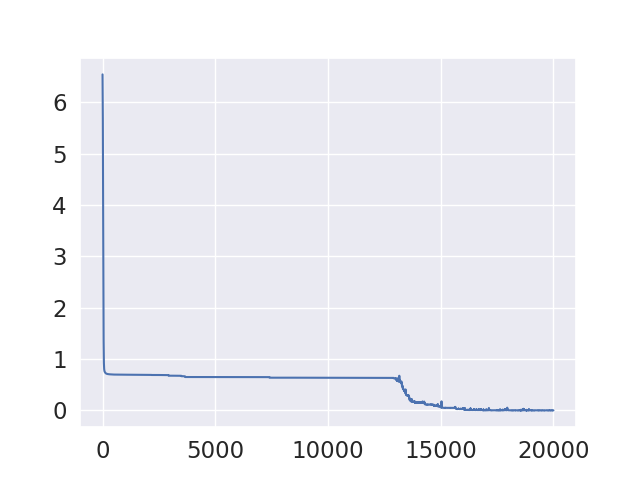
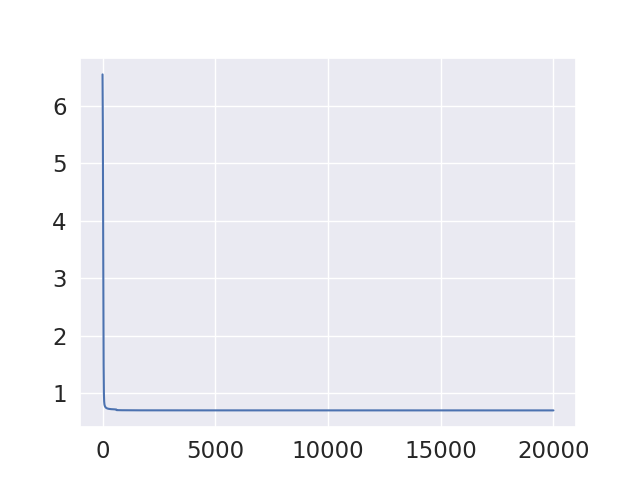
.

diff --git a/cat_tests/test_hyps.py b/cat_tests/test_hyps.py
@@ -180,6 +180,9 @@ def plot_svs(svs_list, name, num_starts, num_classes, num_features=0, learn_temp
     sns.set(font_scale=1.5)
 
     fig, axes = plt.subplots(ncols=len(svs_list), sharey=True)
+    if len(svs_list) == 1:
+        # wrap singleton list?
+        axes = [axes]
     for ax, svs in zip(axes, svs_list):
         g = sns.scatterplot(x=np.arange(len(svs)),y=svs.cpu().detach().numpy(), ax=ax)
     if num_features > 0:
@@ -190,69 +193,67 @@ def plot_svs(svs_list, name, num_starts, num_classes, num_features=0, learn_temp
 
 def run_fit(
     true_dist_fn,
-    num_classes_grid,
-    feature_dim_ratio_grid=[],
-    feature_dim_grid=[],
-    emb_dim_grid=[],
+    num_classes,
+    feature_dim_ratio = None,
+    feature_dim = None,
+    emb_dim = 128,
     random_feature=False,
     learn_temp=False,
     plot_losses = False,
     check_svs = 0,
 ):
-    for num_classes in num_classes_grid:
-        for emb_dim in emb_dim_grid:
-            true_dist = true_dist_fn(num_classes)
-            num_starts = true_dist.shape[0]
+    true_dist = true_dist_fn(num_classes)
+    num_starts = true_dist.shape[0]
 
-            # softmax
-            model = Cat(
-                num_starts,
-                num_classes, emb_dim, feature_dim=1,
-                sm=True,
-                learn_temp = learn_temp,
-            )
-            model.to(device)
-            losses, svs_train = train(true_dist, model, num_steps, check_svs)
-            print(f"SM queries {num_starts} keys {num_classes} edim {emb_dim} ||| KL {losses[-1]:.4} <<<")
-            svs = print_stats(model)
+    # softmax
+    model = Cat(
+        num_starts,
+        num_classes, emb_dim, feature_dim=1,
+        sm=True,
+        learn_temp = learn_temp,
+    )
+    model.to(device)
+    losses, svs_train = train(true_dist, model, num_steps, check_svs)
+    print(f"SM queries {num_starts} keys {num_classes} edim {emb_dim} ||| KL {losses[-1]:.4} <<<")
+    svs = print_stats(model)
+    sm_losses = losses
 
-            if plot_losses:
-                plot(losses, svs, "sm", num_starts, num_classes, learn_temp)
-            if check_svs != 0:
-                plot_svs(svs_train, "sm", num_starts, num_classes, learn_temp)
+    if plot_losses:
+        plot(losses, svs, "sm", num_starts, num_classes, learn_temp=learn_temp)
+    if check_svs != 0:
+        plot_svs(svs_train, "sm", num_starts, num_classes, learn_temp=learn_temp)
 
-            # kernel
-            for feature_dim_ratio, feature_dim in zip_longest(
-                feature_dim_ratio_grid, feature_dim_grid
-            ):
-                if feature_dim is None:
-                    feature_dim = int(num_classes // feature_dim_ratio)
-                model = Cat(
-                    num_starts,
-                    num_classes, emb_dim, feature_dim,
-                    random_feature = random_feature,
-                    learn_temp = learn_temp,
-                )
-                model.to(device)
-                losses, svs_train = train(true_dist, model, num_steps, check_svs)
-                print(f"K queries {num_starts} keys {num_classes} feats {feature_dim} edim {emb_dim} ||| KL: {losses[-1]:.4f} <<<")
-                svs = print_stats(model)
+    # kernel
+    if feature_dim is None:
+        feature_dim = int(num_classes // feature_dim_ratio)
+    model = Cat(
+        num_starts,
+        num_classes, emb_dim, feature_dim,
+        random_feature = random_feature,
+        learn_temp = learn_temp,
+    )
+    model.to(device)
+    losses, svs_train = train(true_dist, model, num_steps, check_svs)
+    print(f"K queries {num_starts} keys {num_classes} feats {feature_dim} edim {emb_dim} ||| KL: {losses[-1]:.4f} <<<")
+    svs = print_stats(model)
+    k_losses = losses
 
-                if plot_losses:
-                    plot(losses, svs, "k", num_starts, num_classes, learn_temp)
-                if check_svs != 0:
-                    plot_svs(svs_train, "k", num_starts, num_classes, learn_temp)
+    if plot_losses:
+        plot(losses, svs, "k", num_starts, num_classes, feature_dim, learn_temp)
+    if check_svs != 0:
+        plot_svs(svs_train, "k", num_starts, num_classes, feature_dim, learn_temp)
 
-                """
-                # l2norm
-                model = Cat(
-                    num_starts,
-                    num_classes, emb_dim, feature_dim, l2norm=True)
-                model.to(device)
-                losses = train(true_dist, model, num_steps)
-                print(num_starts, num_classes, feature_dim, "l2norm", losses[-1])
-                """
-#"""
+    return sm_losses, k_losses
+
+    """
+    # l2norm
+    model = Cat(
+        num_starts,
+        num_classes, emb_dim, feature_dim, l2norm=True)
+    model.to(device)
+    losses = train(true_dist, model, num_steps)
+    print(num_starts, num_classes, feature_dim, "l2norm", losses[-1])
+    """
 PLOT = False
 PLOT = True
 if PLOT:
@@ -269,24 +270,25 @@ if PLOT:
         return true_dist
     run_fit(
         true_dist_sm,
-        num_classes_grid = [128],
-        feature_dim_grid = [64],
-        emb_dim_grid = [128],
+        num_classes = 128,
+        feature_dim = 64,
+        emb_dim = 128,
         plot_losses = True,
         check_svs = 4,
     )
     print("Learn temp")
     run_fit(
         true_dist_sm,
-        num_classes_grid = [128],
-        feature_dim_grid = [64],
-        emb_dim_grid = [128],
+        num_classes = 128,
+        feature_dim = 64,
+        emb_dim = 128,
         learn_temp = True,
         plot_losses = True,
         check_svs = 4,
     )
     print()
 
+    """
     print("Plotting low queries high keys")
     for num_starts in [32, 64]:
         def true_dist_sm(num_classes):
@@ -301,25 +303,24 @@ if PLOT:
             return true_dist
         run_fit(
             true_dist_sm,
-            num_classes_grid = [1024],
-            feature_dim_grid = [64],
-            emb_dim_grid = [128],
+            num_classes = 1024,
+            feature_dim = 64,
+            emb_dim = 128,
             plot_losses = True,
             check_svs = 4,
         )
         print("Learn temp")
         run_fit(
             true_dist_sm,
-            num_classes_grid = [1024],
-            feature_dim_grid = [64],
-            emb_dim_grid = [128],
+            num_classes = 1024,
+            feature_dim = 64,
+            emb_dim = 128,
             learn_temp = True,
             plot_losses = True,
             check_svs = 4,
         )
         print()
-    #"""
-    #sys.exit()
+    """
     
     print("Smoothed One-hot True Dist")
     eps = 1e-4
@@ -333,18 +334,18 @@ if PLOT:
         return true_dist
     run_fit(
         true_dist_onehot,
-        num_classes_grid = [128],
-        feature_dim_grid = [64],
-        emb_dim_grid = [128],
+        num_classes = 256,
+        feature_dim = 64,
+        emb_dim = 128,
         plot_losses = True,
         check_svs = 4,
     )
     print("Learn temp")
     run_fit(
         true_dist_onehot,
-        num_classes_grid = [128],
-        feature_dim_grid = [64],
-        emb_dim_grid = [128],
+        num_classes = 256,
+        feature_dim = 64,
+        emb_dim = 128,
         learn_temp = True,
         plot_losses = True,
         check_svs = 4,
@@ -367,16 +368,16 @@ for temp in temp_grid:
         return true_dist
     run_fit(
         true_dist_sm,
-        num_classes_grid = [256],
-        feature_dim_grid = [64],
-        emb_dim_grid = [128],
+        num_classes = 256,
+        feature_dim = 64,
+        emb_dim = 128,
     )
     print("Learn temp")
     run_fit(
         true_dist_sm,
-        num_classes_grid = [256],
-        feature_dim_grid = [64],
-        emb_dim_grid = [128],
+        num_classes = 256,
+        feature_dim = 64,
+        emb_dim = 128,
         learn_temp = True,
     )
     print()
@@ -396,16 +397,16 @@ for emb_dim in [32, 64, 128, 256, 512]:
         return true_dist
     run_fit(
         true_dist_sm,
-        num_classes_grid = [256],
-        feature_dim_grid = [64],
-        emb_dim_grid = [128],
+        num_classes = 256,
+        feature_dim = 64,
+        emb_dim = 128,
     )
     print("Learn temp")
     run_fit(
         true_dist_sm,
-        num_classes_grid = [256],
-        feature_dim_grid = [64],
-        emb_dim_grid = [128],
+        num_classes = 256,
+        feature_dim = 64,
+        emb_dim = 128,
         learn_temp = True,
     )
 print()
@@ -421,20 +422,23 @@ def true_dist_sm(num_classes):
     print(f"True dist H: {H(true_dist).mean().item():.2f}")
     print_stats(true_model)
     return true_dist
-run_fit(
-    true_dist_sm,
-    num_classes_grid = [64, 128, 256, 512, 1024],
-    feature_dim_grid = [64],
-    emb_dim_grid=[128],
-)
+num_classes_grid = [64, 128, 256, 512, 1024],
+for num_classes in num_classes_grid:
+    run_fit(
+        true_dist_sm,
+        num_classes = num_classes,
+        feature_dim = 64,
+        emb_dim = 128,
+    )
 print("Learn temp")
-run_fit(
-    true_dist_sm,
-    num_classes_grid = [64, 128, 256, 512, 1024],
-    feature_dim_grid = [64],
-    emb_dim_grid=[128],
-    learn_temp = True,
-)
+for num_classes in num_classes_grid:
+    run_fit(
+        true_dist_sm,
+        num_classes = num_classes,
+        feature_dim = 64,
+        emb_dim_grid = 128,
+        learn_temp = True,
+    )
 print()
 
 num_starts_grid = [64, 128, 256, 512, 1024]
@@ -452,16 +456,16 @@ for num_starts in num_starts_grid:
         return true_dist
     run_fit(
         true_dist_sm,
-        num_classes_grid = [128],
-        feature_dim_grid = [64],
-        emb_dim_grid = [128],
+        num_classes = 256,
+        feature_dim = 64,
+        emb_dim = 128,
     )
     print("Learn temp")
     run_fit(
         true_dist_sm,
-        num_classes_grid = [128],
-        feature_dim_grid = [64],
-        emb_dim_grid = [128],
+        num_classes = 256,
+        feature_dim = 64,
+        emb_dim = 128,
         learn_temp = True,
     )
     print()
